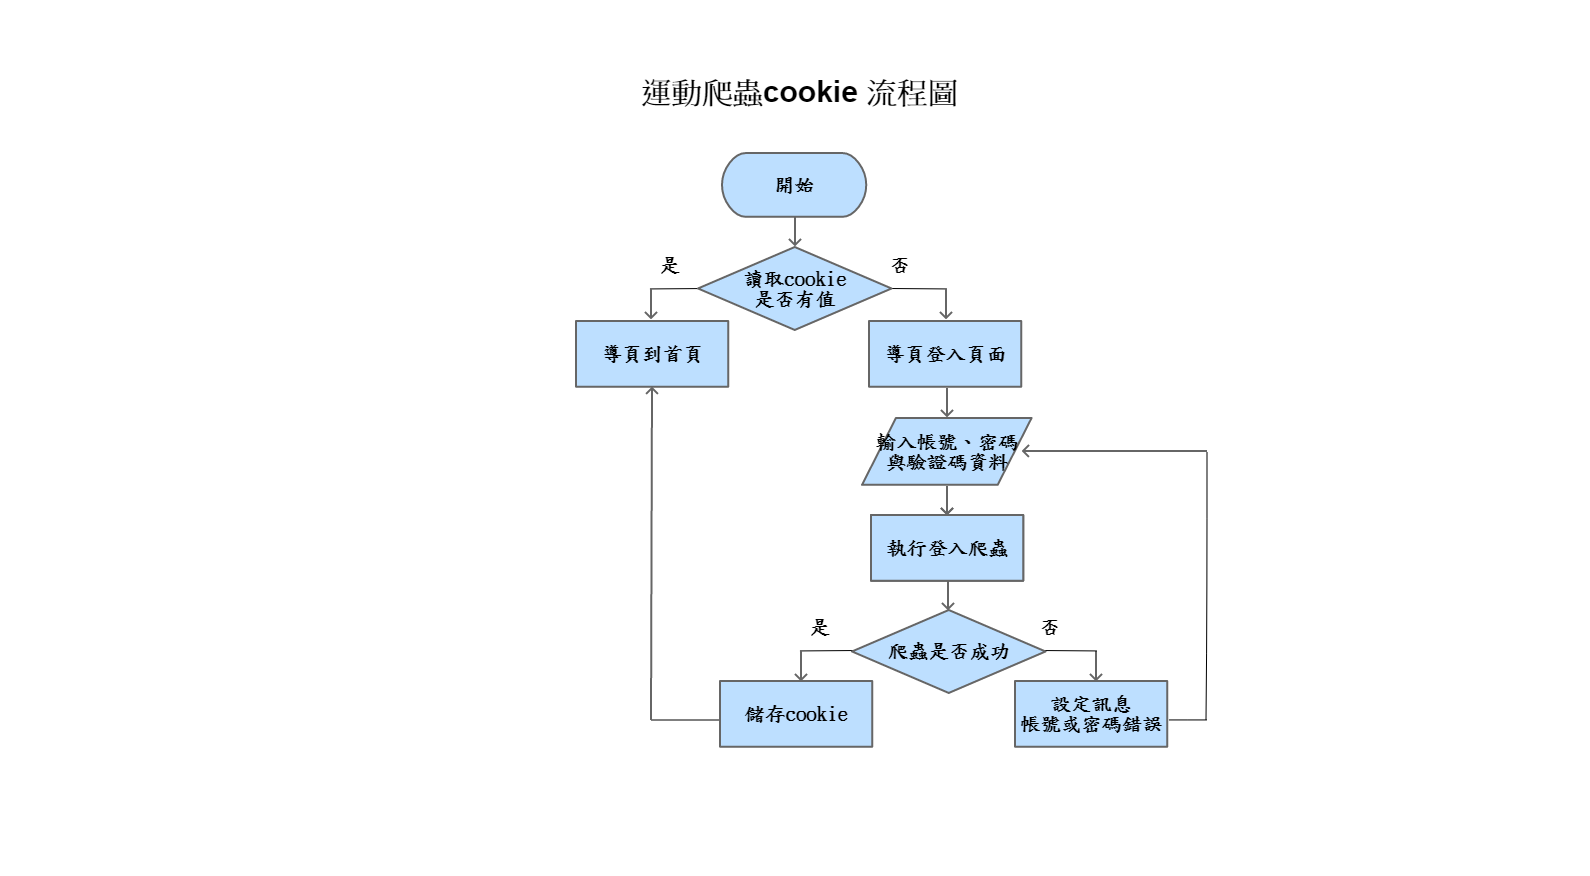
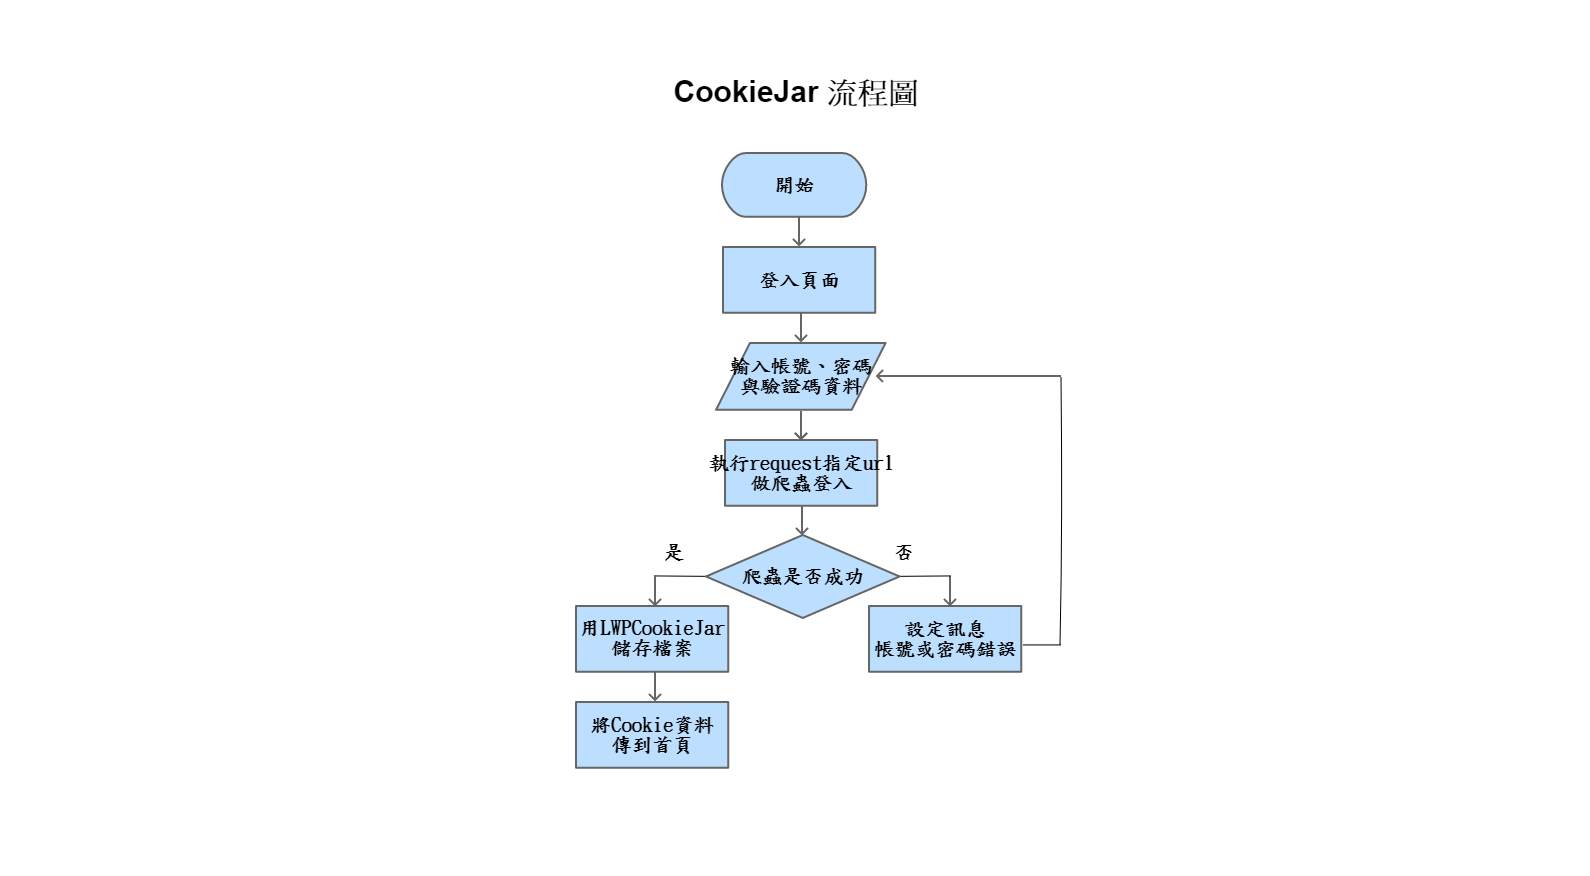
更新python部署至heroku文件

Changed region(s): [[0.339, 0.2466, 0.7396, 0.8938], [0.4006, 0.0925, 0.6164, 0.1233]]

diff --git a/python部署至heroku.md b/python部署至heroku.md
@@ -199,6 +199,26 @@ git push heroku master
 
 
 
+## 設定ClearDB MySQL
+
+用專案上的conn.py檔案，先建立DB連線，在建立資料表
+
+補上圖片
+
+
+
+
+
+
+
+## 設定信用卡
+
+要設定信用卡才可以用 `ClearDB MySQL`
+
+![card](C:\xampp\htdocs\markdown_note\assets\images\card.PNG)
+
+
+
 ## 問題
 
 #### 為什麼在本機執行python app.py，可以執行web環境，但是heroku的Procfile卻不行?

diff --git a/RequestCookieJar與LWPCookieJar兩種流程.md b/RequestCookieJar與LWPCookieJar兩種流程.md
@@ -27,7 +27,7 @@ summary: "說明RequestCookieJar與LWPCookieJar兩種流程"
 
 ## 流程圖
 
-
+![sport-cookie](https://raw.githubusercontent.com/coolgood88142/markdown_note/master/assets/images/sport-cookie.png)
 
 參考資料:
 
